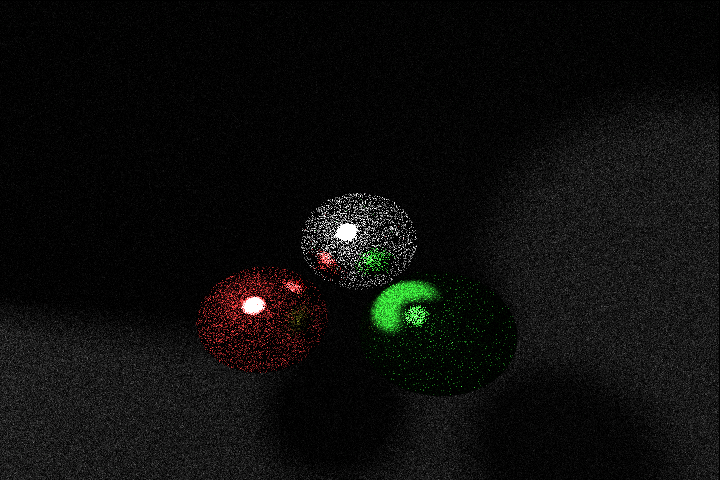
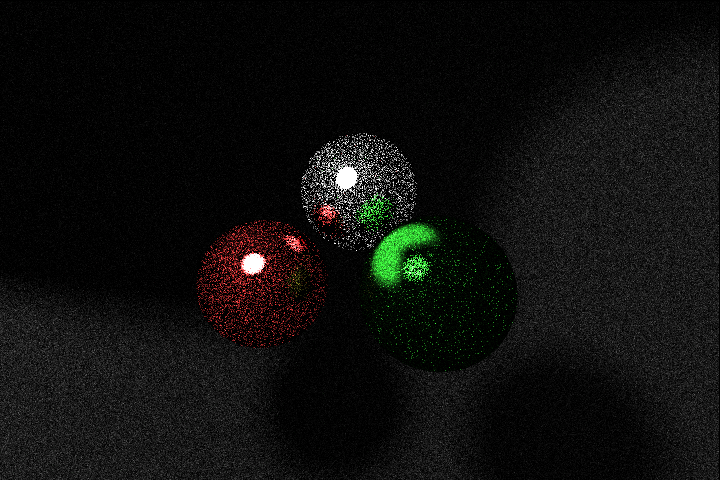
fixed squashing with non-square pictures

Changed region(s): [[0.0, 0.0938, 1.0, 1.0]]

diff --git a/Raytracer/src/Renderer.h b/Raytracer/src/Renderer.h
@@ -20,6 +20,7 @@ class Renderer
 	const RenderParams renderParams_;
 	const std::size_t maxx_;
 	const std::size_t maxy_;
+	const double normalizer_;
 	std::vector<Color> pixels_;
 	Camera cam_;
 	mutable Counter counter_;
@@ -31,7 +32,7 @@ class Renderer
 
 public:
 	Renderer(Scene&& scene, const RenderParams& renderParams, std::size_t maxx, std::size_t maxy, bool multithread)
-		: scene_(std::move(scene)), renderParams_(renderParams), maxx_(maxx), maxy_(maxy), pixels_(std::vector<Color>(maxx* maxy)), cam_(Camera(maxx, maxy, renderParams.FOV)), counter_(Counter()), multithread_(multithread) {}
+		: scene_(std::move(scene)), renderParams_(renderParams), maxx_(maxx), maxy_(maxy), normalizer_(1./maxx), pixels_(std::vector<Color>(maxx* maxy)), cam_(Camera(maxx, maxy, renderParams.FOV)), counter_(Counter()), multithread_(multithread) {}
 
 	std::vector<Color> render();
 	std::size_t percentRendered();

diff --git a/Raytracer/src/Renderer.cpp b/Raytracer/src/Renderer.cpp
@@ -75,7 +75,7 @@ auto Renderer::generatePixelJob(std::size_t x, std::size_t y) {
 		Color c{};
 		Ray r{};
 		for (unsigned int s = 0; s < renderParams_.samplesPerPixel; ++s) {
-			r = Ray({ (x + uni(rnd)) * x_rezi,(y + uni(rnd)) * y_rezi,0.05 }, dir);
+			r = Ray({ (x + uni(rnd)) * normalizer_,(y + uni(rnd)) * normalizer_,0.05 }, dir);
 			c += radiance(r, rnd, 0) / renderParams_.samplesPerPixel;
 		}
 		c = clamp(c, 0.0, 1.0);
